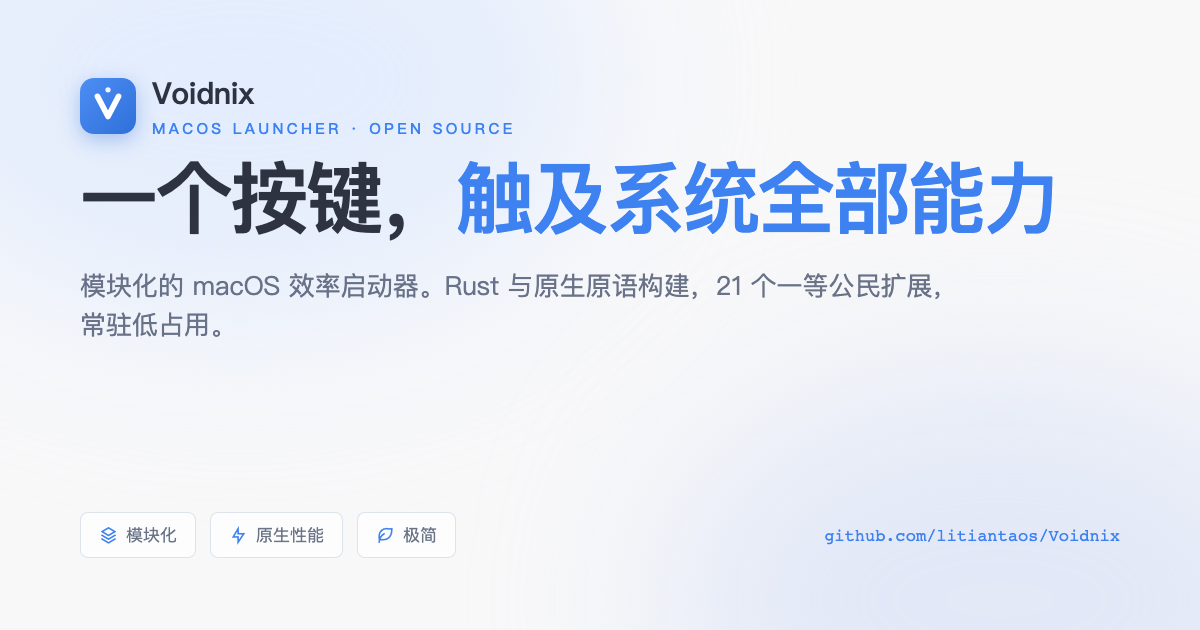
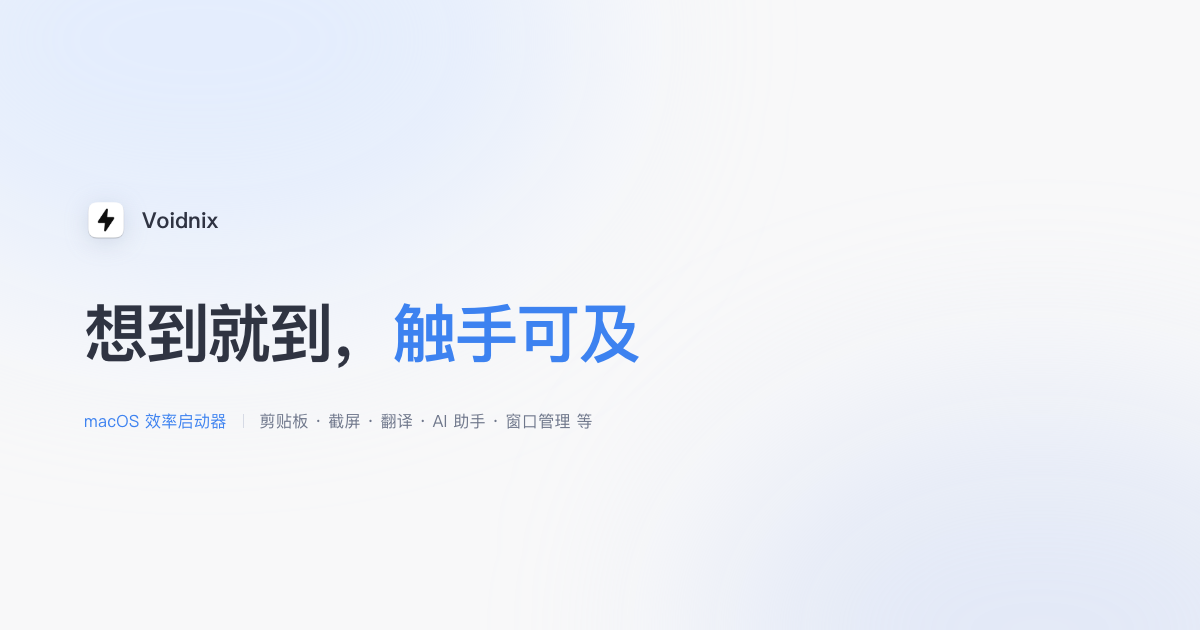
feat(site): 重设计 OG 图与 Hero，下载直链 dmg

diff --git a/site/scripts/og-source.html b/site/scripts/og-source.html
@@ -2,16 +2,13 @@
 <html lang="zh-CN">
   <head>
     <meta charset="UTF-8" />
-    <link
-      rel="stylesheet"
-      href="https://cdn.jsdelivr.net/npm/remixicon@4.2.0/fonts/remixicon.css"
-    />
     <style>
       :root {
         --accent: #3d82f0;
         --cool: 100 120 160;
         --ink: rgba(30, 35, 50, 0.92);
-        --sec: rgba(80, 90, 115, 0.85);
+        --sec: rgba(80, 90, 115, 0.82);
+        --mute: rgba(110, 120, 145, 0.6);
       }
       * {
         margin: 0;
@@ -30,10 +27,12 @@
         position: relative;
         display: flex;
         flex-direction: column;
-        justify-content: space-between;
-        padding: 72px 80px;
+        justify-content: center;
+        padding: 64px 84px;
         color: var(--ink);
+        -webkit-font-smoothing: antialiased;
       }
+
       /* Mica 雾团 */
       .fog {
         position: absolute;
@@ -45,143 +44,102 @@
       .fog span {
         position: absolute;
         border-radius: 50%;
-        filter: blur(90px);
+        filter: blur(100px);
       }
       .fog .a {
-        width: 720px;
-        height: 480px;
-        left: -120px;
-        top: -160px;
+        width: 760px;
+        height: 500px;
+        left: -180px;
+        top: -210px;
         background: rgb(215 230 255 / 0.6);
       }
       .fog .b {
         width: 680px;
         height: 460px;
-        right: -140px;
-        bottom: -200px;
-        background: rgb(205 218 245 / 0.5);
+        right: -180px;
+        bottom: -230px;
+        background: rgb(205 218 245 / 0.48);
       }
-      .content {
+
+      .stage {
         position: relative;
         z-index: 1;
       }
+
+      /* ── 品牌 ── */
       .brand {
         display: flex;
         align-items: center;
-        gap: 16px;
+        gap: 14px;
       }
       .mark {
-        width: 56px;
-        height: 56px;
-        border-radius: 14px;
-        background: linear-gradient(135deg, #4d8ef5, #2f6fd9);
-        box-shadow: 0 6px 20px rgb(47 111 217 / 0.35);
-      }
-      .mark svg {
-        display: block;
+        width: 44px;
+        height: 44px;
+        filter: drop-shadow(0 4px 12px rgb(var(--cool) / 0.22));
       }
       .brand-name {
-        font-size: 30px;
+        font-size: 22px;
         font-weight: 600;
-        letter-spacing: -0.02em;
+        letter-spacing: -0.01em;
+        color: var(--ink);
       }
-      .eyebrow {
-        font-size: 15px;
-        letter-spacing: 0.22em;
-        text-transform: uppercase;
-        color: var(--accent);
-        font-weight: 500;
-        margin-top: 4px;
-      }
+
+      /* ── 标题：主体 ── */
       .title {
-        font-size: 78px;
+        font-family: ui-monospace, 'PingFang SC', sans-serif;
+        font-size: 64px;
         font-weight: 600;
         letter-spacing: -0.035em;
-        line-height: 1.06;
-        margin: 18px 0 26px;
+        line-height: 1.24;
+        margin-top: 52px;
       }
       .title em {
         font-style: normal;
         color: var(--accent);
       }
-      .sub {
-        font-size: 26px;
-        color: var(--sec);
-        line-height: 1.5;
-        max-width: 880px;
+
+      /* ── 标题下一行：定位 + 功能 ── */
+      .info {
+        display: flex;
+        align-items: center;
+        gap: 16px;
+        margin-top: 36px;
+        font-size: 16px;
         font-family: 'PingFang SC', sans-serif;
+        letter-spacing: 0.02em;
       }
-      .foot {
-        position: relative;
-        z-index: 1;
-        display: flex;
-        justify-content: space-between;
-        align-items: center;
-        font-size: 18px;
+      .info .desc {
+        color: var(--accent);
+        white-space: nowrap;
+      }
+      .info .div {
+        width: 1px;
+        height: 14px;
+        background: rgb(var(--cool) / 0.22);
+        flex-shrink: 0;
+      }
+      .info .feats {
         color: var(--sec);
-      }
-      .chips {
-        display: flex;
-        gap: 14px;
-      }
-      .chip {
-        display: inline-flex;
-        align-items: center;
-        gap: 8px;
-        padding: 10px 18px;
-        border-radius: 8px;
-        border: 1px solid rgba(140, 160, 195, 0.28);
-        background: rgba(255, 255, 255, 0.7);
-        font-size: 17px;
-      }
-      .chip i {
-        color: var(--accent);
-        font-size: 19px;
-      }
-      .url {
-        font-family: ui-monospace, monospace;
-        font-size: 17px;
-        color: var(--accent);
+        white-space: nowrap;
       }
     </style>
   </head>
   <body>
     <div class="fog"><span class="a"></span><span class="b"></span></div>
 
-    <div class="content">
+    <div class="stage">
       <div class="brand">
-        <div class="mark">
-          <svg width="56" height="56" viewBox="0 0 64 64">
-            <path
-              d="M20 21 L32 44 L44 21"
-              fill="none"
-              stroke="#fff"
-              stroke-width="6.5"
-              stroke-linecap="round"
-              stroke-linejoin="round"
-            />
-            <circle cx="32" cy="13.5" r="3" fill="#fff" opacity="0.92" />
-          </svg>
-        </div>
-        <div>
-          <div class="brand-name">Voidnix</div>
-          <div class="eyebrow">macOS Launcher · Open Source</div>
-        </div>
+        <img class="mark" src="../public/app-icon.png" alt="Voidnix" />
+        <span class="brand-name">Voidnix</span>
       </div>
 
-      <h1 class="title">一个按键，<em>触及系统全部能力</em></h1>
-      <p class="sub">
-        模块化的 macOS 效率启动器。Rust 与原生原语构建，21 个一等公民扩展，常驻低占用。
-      </p>
-    </div>
+      <h1 class="title">想到就到，<em>触手可及</em></h1>
 
-    <div class="foot">
-      <div class="chips">
-        <span class="chip"><i class="ri-stack-line"></i> 模块化</span>
-        <span class="chip"><i class="ri-flashlight-line"></i> 原生性能</span>
-        <span class="chip"><i class="ri-leaf-line"></i> 极简</span>
+      <div class="info">
+        <span class="desc">macOS 效率启动器</span>
+        <span class="div"></span>
+        <span class="feats"> 剪贴板 · 截屏 · 翻译 · AI 助手 · 窗口管理 等 </span>
       </div>
-      <div class="url">github.com/litiantaos/Voidnix</div>
     </div>
   </body>
 </html>
